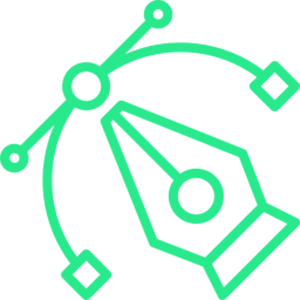
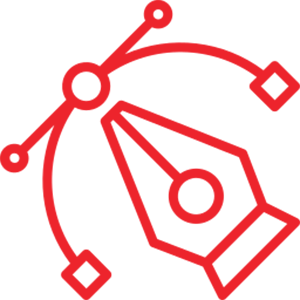
Updated main color

Changed region(s): [[0.0, 0.0, 1.0, 1.0]]

diff --git a/app/assets/scss/layout/_header.scss b/app/assets/scss/layout/_header.scss
@@ -51,54 +51,52 @@
 
     .img-author{
         position: relative;
-
-        .box-shadwo{
-            position: absolute;
-            padding: 10px 60px 10px 30px;
-            background-color: #0c0c0c;
-            width: max-content;
-            margin-bottom: 30px;
-            border-radius: 40px 40px 40px 0;
-            top: 50%;
-            left: -10px;
-
-            h2{
-                font-size: 70px;
-                font-weight: 700;
-                margin-right: 15px;
-            }
-
-            &:before{
-                content: '';
-                position: absolute;
-                left: 0;
-                top: 0;
-                width: 100%;
-                height: 100%;
-                z-index: 1;
-                background: linear-gradient(120deg, rgba(255,255,255,0.24), rgba(255,255,255,0.04));
-                opacity: 0.3;
-                pointer-events: none;
-                border-radius: 40px 40px 40px 0;
-            }
-
-            &:after{
-                content: '';
-                position: absolute;
-                top: -1px;
-                right: -1px;
-                bottom: -1px;
-                left: -1px;
-                background: linear-gradient(120deg, rgba(255, 255, 255, 0.1), rgba(255, 255, 255, 0.01));
-                z-index: -1;
-                pointer-events: none;
-                border-radius: 40px 40px 40px 0;
-            }
-        }
-
         img{
             position: relative;
             z-index: 3;
         }
     }
+
+    .box-shadwo {
+        position: relative;
+        padding: 10px 60px 10px 30px;
+        background-color: #0c0c0c;
+        width: max-content;
+        border-radius: 40px 40px 40px 0;
+        z-index: 10;
+
+        h2{
+            font-size: 70px;
+            font-weight: 700;
+            margin-right: 15px;
+        }
+
+        &:before{
+            content: '';
+            position: absolute;
+            left: 0;
+            top: 0;
+            width: 100%;
+            height: 100%;
+            z-index: 1;
+            background: linear-gradient(120deg, rgba(255,255,255,0.24), rgba(255,255,255,0.04));
+            opacity: 0.3;
+            pointer-events: none;
+            border-radius: 40px 40px 40px 0;
+        }
+
+        &:after{
+            content: '';
+            position: absolute;
+            top: -1px;
+            right: -1px;
+            bottom: -1px;
+            left: -1px;
+            background: linear-gradient(120deg, rgba(255, 255, 255, 0.1), rgba(255, 255, 255, 0.01));
+            z-index: -1;
+            pointer-events: none;
+            border-radius: 40px 40px 40px 0;
+        }
+    }
+
 }

diff --git a/app/components/Banner.vue b/app/components/Banner.vue
@@ -9,22 +9,19 @@
             <div class="text mt-30">
               <p>My objective is to foster business growth through the adoption of cutting-edge technologies.</p>
             </div>
-            <div class="mt-50">
-              <a href="https://telegram.me/denisoed" target="_blank" class="butn butn-md butn-bord radius-5">
-                <span>Contact Me</span>
-              </a>
+            <div class="mt-50 d-flex align-items-center">
+              <div class="box-shadwo mr-30">
+                <div class="d-flex align-items-center">
+                  <h2>{{ expirience }}</h2>
+                  <h6>Years of <br> Experiences</h6>
+                </div>
+              </div>
             </div>
           </div>
         </div>
-        <div class="col-lg-6">
+        <div class="col-lg-6 d-flex align-items-end">
           <div class="img-author">
-            <img src="assets/imgs/header/b1.png" alt="">
-            <div class="box-shadwo">
-              <div class="d-flex align-items-center">
-                <h2>{{ expirience }}</h2>
-                <h6>Years of <br> Experiences</h6>
-              </div>
-            </div>
+            <img src="assets/imgs/header/me.png" alt="Denis Grushkin">
           </div>
         </div>
       </div>

diff --git a/app/components/Header.vue b/app/components/Header.vue
@@ -32,6 +32,11 @@
           <div class="bord d-flex justify-content-end">
             <ul class="social d-flex rest">
               <li>
+                <a href="https://telegram.me/denisoed" target="_blank">
+                  <i class="fab fa-telegram"></i>
+                </a>
+              </li>
+              <li>
                 <a href="http://linkedin.com/in/denis-grushkin-161b31166" target="_blank">
                   <i class="fab fa-linkedin-in"></i>
                 </a>

diff --git a/app/assets/scss/utility/_variables.scss b/app/assets/scss/utility/_variables.scss
@@ -3,11 +3,11 @@
 -----------------------------------------------------------------*/
 
 :root {
-    --maincolor: #28e98c;
+    --maincolor: #ec1c24;
 }
 
 $body_color: #fff;
-$main_color: #28e98c;
+$main_color: #ec1c24;
 $sub_bg: #181818;
 $main_bg: #1d1d1d;
 $mobile-xs-screen: 480px;
